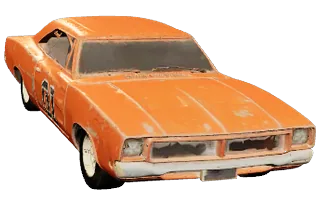
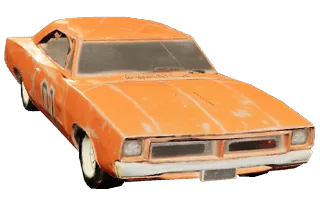
17.54: rewire v8-pilot-SHRINK.glb; new smaller Dodge uses auto fit
Claude-Session: https://claude.ai/code/session_01RuD8JwW3CrtLvEYh6W8scq

diff --git a/src/vehicleChoice.js b/src/vehicleChoice.js
@@ -9,7 +9,7 @@ import { vehiclePhysicsProfile } from './vehiclePhysicsProfiles.js';
 // Player vehicle catalogue. Add the model here and point `physicsProfile` at the matching
 // entry in vehiclePhysicsProfiles.js. Physics stays platform-independent and shared by all modes.
 export const VEHICLES = [
-  { id: 'car', name: 'Mr Muscle', url: 'cars/dodge-shrink.glb', fit: 'measured', damageMul: 0.95, physicsProfile: 'car' },
+  { id: 'car', name: 'Mr Muscle', url: 'cars/dodge-shrink.glb', fit: 'auto', targetLength: 4.89, damageMul: 0.95, physicsProfile: 'car' },
   { id: 'escort', name: '70s Saloon', url: 'cars/escort-shrink.glb', fit: 'auto', targetLength: 4.05, damageMul: 1.15, physicsProfile: 'escort' },
   { id: 'bmw', name: 'German Beema', url: 'cars/bmw-shrink.glb', fit: 'auto', targetLength: 4.33, damageMul: 1.0, physicsProfile: 'bmw' },
   {
@@ -27,7 +27,7 @@ export const VEHICLES = [
     id: 'v8-pilot',
     name: 'Classic Oil Burner',
     description: "Mum drove it, Dad fixed it. A smokin' V8 bruiser!",
-    url: 'cars/v8-pilot.glb',
+    url: 'cars/v8-pilot-SHRINK.glb',
     fit: 'auto',
     targetLength: 4.44,
     damageMul: 0.85,                 // a bruiser: takes 15% less from every hit

diff --git a/src/version.js b/src/version.js
@@ -3,5 +3,5 @@ import './bootstrap.js';
 // VERSION is edited by hand, every time a change lands - bump it and set NOTE to a short line describing
 // what changed, e.g. 'AI cars now line up on the grid'. NOTE isn't shown on screen any more (removed from
 // the menu), but keep filling it in anyway: it's a handy one-line changelog to glance back through.
-export const VERSION = '17.53';
-export const NOTE = 'New smaller motorhome model (cars/motorhome-SHRINK.glb)';
+export const VERSION = '17.54';
+export const NOTE = 'Rewired renamed models: v8-pilot-SHRINK.glb, and the new smaller Mr Muscle (dodge-shrink.glb) now uses the automatic fit';

diff --git a/src/assetVersion.js b/src/assetVersion.js
@@ -1,6 +1,6 @@
 // Cache-busting version for replaceable game assets such as GLB car models.
 // Keep this in step with src/version.js. Tests enforce that the two versions match.
-export const ASSET_VERSION = '17.53';
+export const ASSET_VERSION = '17.54';
 
 export function assetUrl(url) {
   const s = String(url || '');
